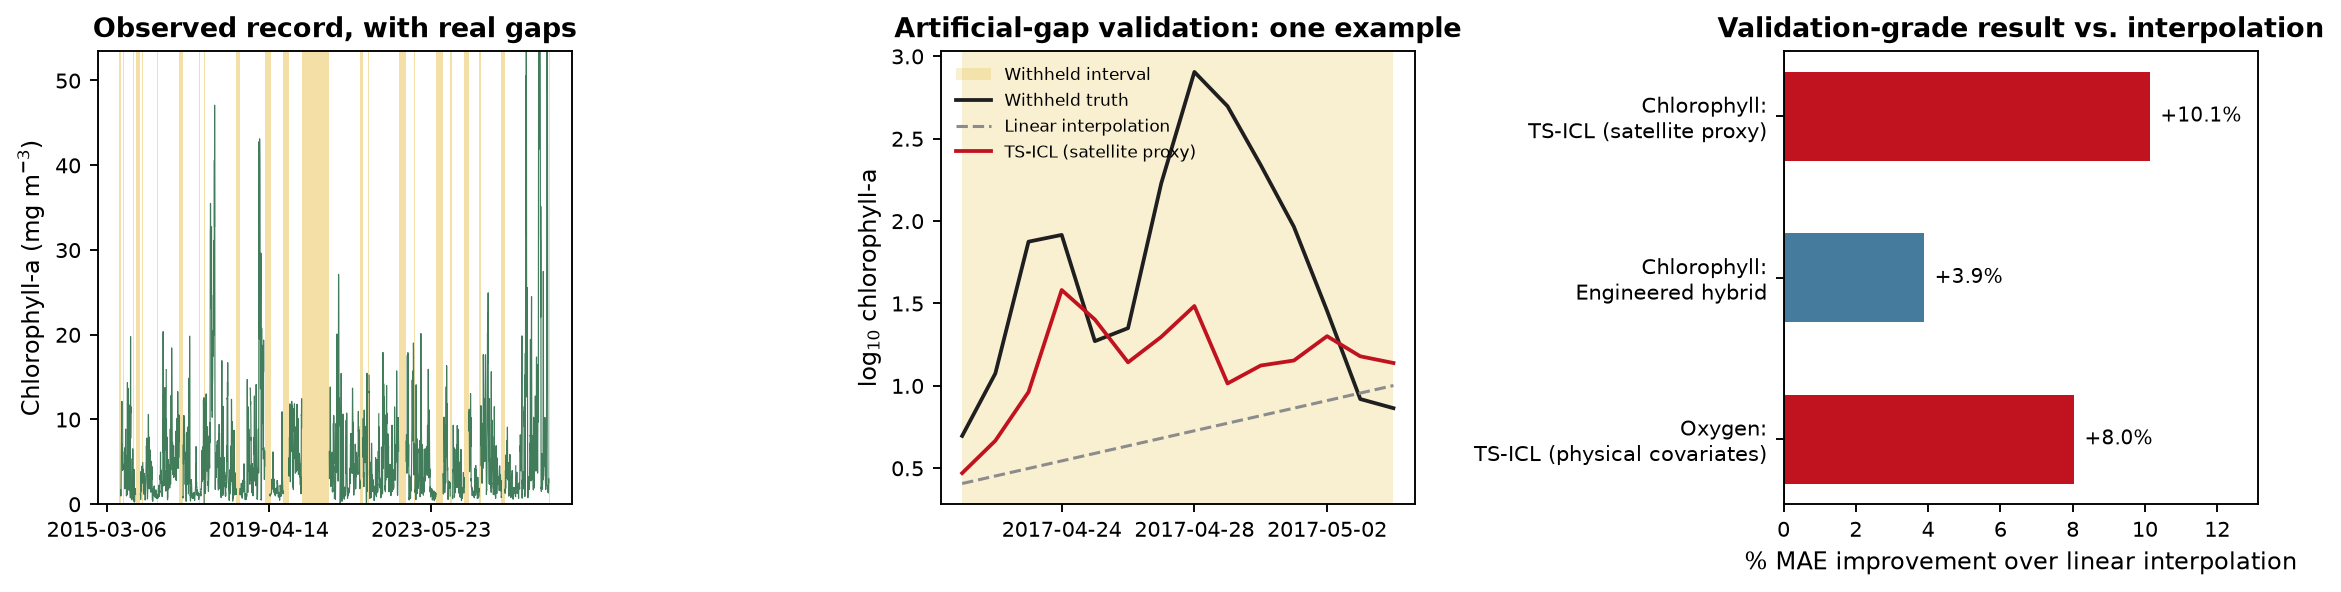
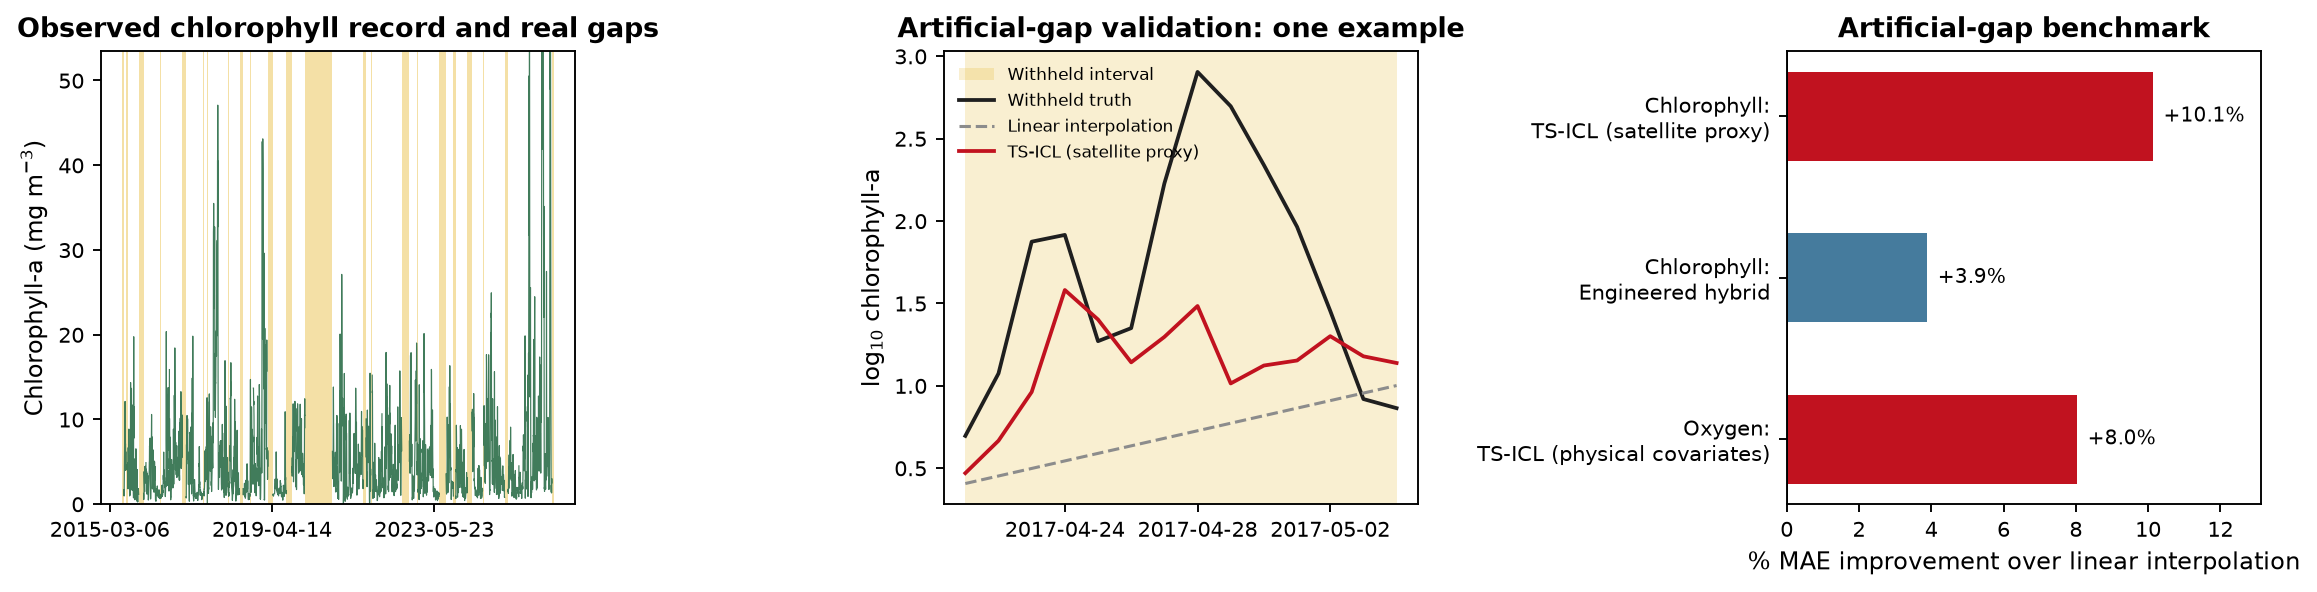
docs(portfolio): correct final public claims and product provenance
README: the "applied validated methods to real gaps in both records"
claim was false for oxygen (no oxygen reconstruction candidate exists,
inventory only) -- corrected. Softened the placebo/negative-control
claim from asserting a proven causal mechanism to what the experiment
actually supports (temporal alignment and covariate information
mattered, not merely extra input channels). QUICK setup command now
uses --locked.

Removed "validation-grade" framing from docs/{data_dictionary,
evidence_and_limitations,methods,reproducibility}.md and
experiments/chlorophyll/real_gap_contract.py in favor of direct
language ("scored against withheld observations", "artificial-gap
benchmark"). Frozen results/*.csv and manuscript/ left untouched
(evidence_tier values there are released data, not doc prose).

docs/methods.md: removed the stale docs/methodology/ reference (that
directory no longer exists after the prior notebook/docs consolidation);
corrected the external-tabular "safe for any gap length" overclaim to
state what's actually true (no target-history dependency, unverified
accuracy beyond the validated gap-length support); softened the
"genericizing paid off" self-congratulatory framing to a direct
statement of fact. Also fixed a leftover stale reference to the removed
figures/chlorophyll/ directory in src/coastal_gap_reconstruction/plotting.py,
found while scanning for other removed-path residue.

docs/reproducibility.md: added --locked to the QUICK install command;
[…]

diff --git a/experiments/visualization/build_project_overview.py b/experiments/visualization/build_project_overview.py
@@ -64,7 +64,7 @@ def panel1_target_and_gaps(ax):
         ax.axvspan(g["start_date"], g["end_date"], color=COLOR_GAP, alpha=0.35, lw=0)
 
     ax.set_ylabel("Chlorophyll-a (mg m$^{-3}$)")
-    ax.set_title("Observed record, with real gaps")
+    ax.set_title("Observed chlorophyll record and real gaps")
     ax.set_ylim(0, target["chl_mean"].quantile(0.995))
     ax.xaxis.set_major_locator(mticker.MaxNLocator(4))
 
@@ -123,7 +123,7 @@ def panel3_benchmark_message(ax):
     ax.invert_yaxis()
     ax.axvline(0, color="black", lw=0.8)
     ax.set_xlabel("% MAE improvement over linear interpolation")
-    ax.set_title("Validation-grade result vs. interpolation")
+    ax.set_title("Artificial-gap benchmark")
     for y, v in zip(y_pos, values):
         ax.text(v + (0.3 if v >= 0 else -0.3), y, f"{v:+.1f}%", va="center",
                 ha="left" if v >= 0 else "right", fontsize=8.5)

diff --git a/experiments/chlorophyll/real_gap_contract.py b/experiments/chlorophyll/real_gap_contract.py
@@ -60,8 +60,8 @@ ARTIFACT_STATUSES: dict[str, ArtifactStatus] = {
     "artificial_validation_gap": ArtifactStatus(
         "artificial_validation_gap",
         "A withheld-and-known-true-value gap from the canonical validation pool "
-        "(experiments.chlorophyll.benchmark_contract) -- the only validation-grade evidence source "
-        "in this project. Not what this module is about, but the category everything else here "
+        "(experiments.chlorophyll.benchmark_contract) -- the only evidence in this project scored "
+        "against withheld observations. Not what this module is about, but the category everything else here "
         "is explicitly NOT.",
     ),
     "observed_real_missing_interval": ArtifactStatus(

diff --git a/src/coastal_gap_reconstruction/plotting.py b/src/coastal_gap_reconstruction/plotting.py
@@ -1,8 +1,10 @@
 """Small plotting helpers for the figure types used in this benchmark.
 
 These are intentionally minimal -- enough to reproduce the basic shape of
-the figures shipped under figures/chlorophyll/, not a full plotting library.
-Requires matplotlib (not a hard dependency of the package; import lazily).
+the target-and-gaps / gap-length-performance figures used elsewhere in
+this repository (e.g. notebook 01, `assets/project_overview.png`), not a
+full plotting library. Requires matplotlib (not a hard dependency of the
+package; import lazily).
 """
 
 from __future__ import annotations

diff --git a/docs/data_sources.md b/docs/data_sources.md
@@ -19,13 +19,17 @@ attribution and use conditions, summarized below.
 | Source / provider | Product or station | Variables used | Role in this project | Product ID / DOI | Required acknowledgement |
 |---|---|---|---|---|---|
 | CEAZAMet / CEAZA | Tongoy Balsa buoy (chlorophyll, sensor BTGOXD2 for oxygen), Punta Lengua de Vaca (PLV) meteorological station | `chl_mean`, `oxygen_mean_mgL`, PLV temperature/pressure/humidity/precipitation/solar radiation/wind | Reconstruction targets (both case studies) and meteorological predictors | -- (station data, www.ceazamet.cl) | Use **one** of: "Datos provistos por CEAZA, obtenidos desde www.ceazamet.cl, 2019" or "Centro de Estudios Avanzados en Zonas Áridas (CEAZA), www.ceazamet.cl, 2019" -- not both |
-| NASA / PO.DAAC | GHRSST Level 4 MUR Global Foundation SST Analysis (v4.1) | `mur_sst_*`, `mur_gradient_*`, `mur_front_*` | Sea-surface-temperature predictor features | `10.5067/GHGMR-4FJ04` | Cite the current PO.DAAC dataset page |
-| Copernicus Marine Service (CMEMS) | Wind reanalysis/forecast product | `wind_u_ms`, `wind_v_ms`, `wind_spd_ms` and lag/roll features | Wind predictor features | -- | Attribution to Copernicus Marine Service |
-| Copernicus / OSTIA | OSTIA SST analysis | `ostia_sst_degC` | SST predictor feature | -- | Attribution to Copernicus Marine Service |
-| ESA / Copernicus | SST Climate Change Initiative product | SST-related predictor features | Predictor features | -- | Attribution to Copernicus Marine Service |
-| Copernicus / GlobColour | Satellite ocean-colour chlorophyll-a | `chl_cons_*`, `chl_perm_*`, patchiness/anomaly features | Satellite chlorophyll proxy predictor and TS-ICL covariate | -- | Attribution to Copernicus Marine Service |
-| EUMETSAT / ASCAT | Advanced Scatterometer wind/current product | Wind and upwelling-related predictor features | Predictor features | -- | Attribution to Copernicus Marine Service |
-| Copernicus / GLORYS12, MULTIOBS | Ocean current reanalysis | Current/transport/kinematic features (`data/shared/external_current_kinematic_extension.csv`) | Ocean-current predictor features (chlorophyll current-transport arms, oxygen `external_physical_plus_currents`) | -- | Attribution to Copernicus Marine Service |
+| NASA / PO.DAAC (JPL MUR MEaSUREs) | GHRSST Level 4 MUR Global Foundation SST Analysis (v4.1) | `mur_sst_*`, `mur_gradient_*`, `mur_front_*` | Sea-surface-temperature predictor features | DOI `10.5067/GHGMR-4FJ04` | Cite the current PO.DAAC dataset page |
+| Met Office / GHRSST (OSTIA) | The Current Configuration of the OSTIA System for Operational Production of Foundation SST and Ice Concentration Analyses (Good et al., *Remote Sensing*, 2020) | `ostia_sst_degC` | SST predictor feature | DOI `10.3390/rs12040720` | Cite Good et al. (2020) |
+| Copernicus Marine Service | Global Ocean Hourly Reprocessed Sea Surface Wind and Stress from Scatterometer and Model | `wind_u_ms`, `wind_v_ms`, `wind_spd_ms` and lag/roll features | Wind predictor features | Product `WIND_GLO_PHY_L4_MY_012_006`, DOI `10.48670/moi-00185` | Attribution to Copernicus Marine Service |
+| Copernicus Marine Service (ACRI-ST) | Global Ocean Colour (Copernicus-GlobColour), Bio-Geo-Chemical, L4 | `chl_cons_*`, `chl_perm_*`, patchiness/anomaly features | Satellite chlorophyll proxy predictor and TS-ICL covariate | Product `OCEANCOLOUR_GLO_BGC_L4_MY_009_104`, DOI `10.48670/moi-00281` | Attribution to Copernicus Marine Service |
+| Copernicus Marine Service | Global Ocean Physics Reanalysis (GLORYS12) | Current/transport/kinematic features (`data/shared/external_current_kinematic_extension.csv`) | Ocean-current predictor features (chlorophyll current-transport arms, oxygen `external_physical_plus_currents`) | Product `GLOBAL_MULTIYEAR_PHY_001_030`, DOI `10.48670/moi-00021` | Attribution to Copernicus Marine Service |
+| Copernicus Marine Service | Global Total (COPERNICUS-GLOBCURRENT), Ekman and Geostrophic Currents at the Surface and 15m (MULTIOBS) | Current/transport/kinematic features (`data/shared/external_current_kinematic_extension.csv`) | Ocean-current predictor features (chlorophyll current-transport arms, oxygen `external_physical_plus_currents`) | Product `MULTIOBS_GLO_PHY_MYNRT_015_003`, DOI `10.48670/mds-00327` | Attribution to Copernicus Marine Service |
+
+The CMEMS wind product above is itself a blend (bias-corrected ERA5 fields
+using ASCAT Metop-A/B/C and historical QuikSCAT/ERS scatterometer
+observations) -- ASCAT is a contributing observational source within that
+one product, not a separately extracted dataset in this project.
 
 CEAZAMet's hourly in-situ observations are publicly accessible at their
 source (www.ceazamet.cl) and are not committed to this repository in raw

diff --git a/docs/reproducibility.md b/docs/reproducibility.md
@@ -8,7 +8,7 @@ readers only need QUICK.
 ```bash
 git clone https://github.com/matteofaverio/coastal-gap-reconstruction
 cd coastal-gap-reconstruction
-uv sync --extra notebooks --extra test   # locked core environment (uv.lock)
+uv sync --extra notebooks --extra test --locked   # locked core environment (uv.lock)
 uv run pytest tests/
 uv run jupyter lab notebooks/01_data_and_gap_audit.ipynb
 ```
@@ -28,7 +28,7 @@ ruff check .        # lint
 uv run pytest tests/test_notebooks_smoke.py -v   # every notebook, executed
 ```
 
-## STANDARD -- bounded live runs (tens of minutes)
+## STANDARD -- bounded and matched-support runs (minutes to a few hours)
 
 Reruns a scientifically representative subset live, on your machine, for
 both case studies:
@@ -72,11 +72,24 @@ documented per method rather than papered over with a looser tolerance.
 ## EXPENSIVE, optional -- full grids (hours to a day+, never required)
 
 Not required to use, inspect, or trust this repository. The frozen tables
-under `results/` are the authoritative complete results; the code below
-regenerates the equivalent and is published, tested, and restart-safe, but
-was intentionally not run to completion as part of preparing this
-repository, because the compute cost is disproportionate to what a public
-reproducibility artifact needs.
+under `results/` are the authoritative complete results in every case
+below. Actual completion status of each grid, as prepared for this
+repository:
+
+- The full chlorophyll primary TS-ICL benchmark (681 gaps x 2 context
+  modes x 6 arms = 8,172 calls) **was run to completion** -- 0 failures,
+  ~3h wall clock.
+- The full chlorophyll covariate dissection (681 gaps x 42 arm/placebo
+  variants = 28,602 calls) was **deliberately stopped** after 2,150
+  successful calls (0 failures) -- a compute-bounded decision, not a
+  failure; the driver is restart-safe and resumable.
+- The full oxygen TS-ICL grid (5 audited-original arms x 2 context modes +
+  4 exploratory arms, all 406 primary gaps) **was not rerun** for this
+  repository.
+
+The code below regenerates the equivalent of each and is published,
+tested, and restart-safe; running any of it to completion is optional and
+was not required to prepare or trust this repository.
 
 ```bash
 # Full chlorophyll TS-ICL target benchmark: 681 gaps x 2 context modes x 6
@@ -139,12 +152,12 @@ from this repository's MIT license, prohibits commercial/production use.
 Review the license in the authors' repository before using TS-ICL in your
 own work.
 
-**Determinism**: same-process, same-environment repeatability is directly
-verified (`experiments/chlorophyll/verify_same_environment_repeatability.py`
--- bitwise-identical predictions across two independent process
-invocations). Bit-exact reproduction across different machines/torch
-versions/CPU vs. GPU is **not** independently verified -- do not assume it
-beyond a fixed environment.
+**Determinism**: same-environment repeatability across two independent
+process invocations is directly verified
+(`experiments/chlorophyll/verify_same_environment_repeatability.py` --
+bitwise-identical predictions). Bit-exact reproduction across different
+machines/torch versions/CPU vs. GPU is **not** independently verified --
+do not assume it beyond a fixed environment.
 
 ## What's frozen vs. regenerable
 
@@ -154,7 +167,8 @@ or EXPENSIVE commands above will not produce a bit-identical file (ML
 estimator fits and TS-ICL inference are environment-sensitive, as noted
 above); `--verify`/`score_*.py` report a structured comparison rather than
 requiring exact equality. See `docs/evidence_and_limitations.md` for which
-results carry validation-grade weight in the first place.
+results are actually scored against withheld observations in the first
+place.
 
 ## Documents
 

diff --git a/docs/methods.md b/docs/methods.md
@@ -29,7 +29,7 @@ pool has 681 gaps at lengths 1, 3, 7, 10, 14, 21, 30, 45, and 60 days;
 oxygen's has 406 primary gaps at lengths 1, 3, 7, 10, 14, 21, 30 days plus
 a small exploratory-extended tier at 45, 60, 90, 120 days (never used in
 headline numbers). See `docs/evidence_and_limitations.md`
-for why this is the only validation-grade evidence tier, and
+for why this is the only evidence tier scored against withheld observations, and
 `experiments/chlorophyll/target_and_gap_pool.py` /
 `experiments/oxygen/target_and_gap_pool.py` for the exact, tested pool
 construction.
@@ -54,7 +54,11 @@ excluding the hidden days currently being scored. See
   lengths and is not forecast-safe (it needs a post-gap observation).
 - **Classical tabular models**: Ridge/ElasticNet/ExtraTrees/HistGradientBoosting
   trained on external-only feature rows (calendar, meteorology, satellite/
-  reanalysis products, no target history) -- safe for any gap length.
+  reanalysis products, no target history) -- they do not require any
+  target-history observation inside or around the gap, so they can
+  produce a prediction wherever the external predictors are available;
+  their accuracy beyond the validated gap-length support (up to 60 days
+  for chlorophyll, 30 days primary for oxygen) remains unverified.
   `experiments/chlorophyll/tabular_models.py`,
   `experiments/oxygen/classical_models.py`.
 - **Gap-edge residual models**: predict a correction over linear
@@ -91,8 +95,8 @@ gap-position information) and a matched-reference fit (external features
 plus 5 structural meta-features describing gap length/position, never a
 hidden target value). Only the matched-reference protocol has a released
 row in the benchmark tables. Both are published as separate method IDs; see
-`docs/methodology` cross-references in `experiments/chlorophyll/gap_edge_models.py`
-and `tabular_models.py` module docstrings for the exact feature sets.
+the `experiments/chlorophyll/gap_edge_models.py` and `tabular_models.py`
+module docstrings for the exact feature sets.
 
 ## Oxygen adaptation
 
@@ -100,7 +104,7 @@ The oxygen case study (Case Study 2) reuses every generic mechanic
 (masking, baseline imputation, Gaussian process, TS-ICL calling layer, run
 state/manifest bookkeeping) from `src/coastal_gap_reconstruction/` and
 `experiments/chlorophyll/tsicl_run_state.py`/`tsicl_run_manifest.py`
-unmodified -- evidence that genericizing the shared package paid off.
+unmodified -- none of that shared code needed any oxygen-specific change.
 Oxygen-specific decisions (raw-mg/L scoring, predictor admissibility,
 support size, tail diagnostics) live in `experiments/oxygen/benchmark_contract.py`.
 See `docs/reproducibility.md` and `notebooks/06_oxygen_case_study.ipynb` for

diff --git a/docs/data_dictionary.md b/docs/data_dictionary.md
@@ -288,7 +288,7 @@ with a `_chl_mg_m3` column in the same computation.
 | q05_log10_chl, q10_log10_chl, q25_log10_chl, q50_log10_chl, q75_log10_chl, q90_log10_chl, q95_log10_chl | Quantile predictions, log10 scale, forming an uncertainty band |
 | pred_chl_mg_m3 | Point prediction, back-transformed to chlorophyll units (mg/m³) |
 | q05_chl_mg_m3, q10_chl_mg_m3, q25_chl_mg_m3, q50_chl_mg_m3, q75_chl_mg_m3, q90_chl_mg_m3, q95_chl_mg_m3 | Same quantiles, back-transformed to mg/m³ (`10 ** q*_log10_chl`) |
-| artificial_validation_supported | True if this gap length/configuration has validation-grade support from the artificial-gap pool |
+| artificial_validation_supported | True if this gap length/configuration has validated artificial-gap support |
 | event_caveat | Free-text note on event-day handling; no event-specific bias correction is applied in this output |
 | quantile_calibrated | Whether the quantile outputs have been calibration-checked |
 | scenario_only_256day | Legacy field name -- despite "scenario," this flags rows that are **real, observed** gap positions falling outside the validated artificial-gap length envelope (currently just the one 256-day gap), not a synthetic/constructed scenario. See `docs/evidence_and_limitations.md`. |
@@ -446,7 +446,7 @@ both candidate methods is needed, e.g. for plotting a continuous series.
 | tsicl_gap_id | Real-gap identifier this day belongs to, as labeled in the TS-ICL output (NaN if outside any real gap) |
 | tsicl_satellite_proxy_pred_chl | TS-ICL satellite-proxy candidate prediction, chlorophyll units (NaN if not predicted for this day) |
 | tsicl_satellite_proxy_pred_log10_chl | Same prediction, log10 scale |
-| tsicl_artificial_validation_supported | True if this gap length/configuration has validation-grade support from the artificial-gap pool |
+| tsicl_artificial_validation_supported | True if this gap length/configuration has validated artificial-gap support |
 | tsicl_scenario_only_256day | True if this row's TS-ICL prediction belongs to the 256-day scenario-only gap |
 | hybrid_gap_id | Real-gap identifier this day belongs to, as labeled in the engineered hybrid output |
 | hybrid_gap_length | Length (days) of the real gap this day belongs to, per the engineered hybrid output |

diff --git a/README.md b/README.md
@@ -33,8 +33,11 @@ goal is filling in history, not predicting the future.
   interpolation baselines, external-predictor tabular models, a Gaussian
   process and a state-space model, and **TS-ICL**, a zero-shot time-series
   foundation model, evaluated with and without external covariates.
-- Applied the validated methods to the real gaps in both records, keeping
-  those outputs clearly labeled as candidates, not as validated numbers.
+- Applied validated methods to the real gaps in the chlorophyll record,
+  publishing two independent, method-specific candidate reconstructions,
+  clearly labeled as candidates, not as validated numbers. Oxygen
+  currently has a real-gap inventory and classification only — no
+  oxygen reconstruction candidate is published.
 - Wrote up both case studies in a report, two presentations, and a poster.
 
 ## Main findings
@@ -51,9 +54,10 @@ goal is filling in history, not predicting the future.
   wind, solar, currents — the first comparator to beat interpolation on
   oxygen at all, 95% CI [4.5%, 11.4%]).
 - Covariate effects were selective, not universally beneficial: some
-  covariate configurations hurt performance, and a placebo/negative-control
-  test confirmed the winning covariate's effect is a real mechanism, not an
-  artifact of extra input channels.
+  covariate configurations hurt performance. A negative-control experiment
+  supported that temporal alignment and covariate information mattered,
+  rather than performance improving merely because extra input channels
+  were added.
 - Every method under-predicts high-chlorophyll event days, and TS-ICL's
   oxygen improvement does not hold uniformly across the distribution (it
   loses to interpolation in the high tail). Neither limitation is solved.
@@ -82,7 +86,7 @@ known limitations before citing any number from this repository.
 ```bash
 git clone https://github.com/matteofaverio/coastal-gap-reconstruction
 cd coastal-gap-reconstruction
-uv sync --extra notebooks --extra test
+uv sync --extra notebooks --extra test --locked
 uv run pytest tests/
 uv run jupyter lab notebooks/01_data_and_gap_audit.ipynb
 ```

diff --git a/docs/evidence_and_limitations.md b/docs/evidence_and_limitations.md
@@ -6,7 +6,7 @@ drawing a stronger conclusion than the evidence supports.
 
 ## Evidence hierarchy
 
-### 1. Validation-grade: artificial-gap results
+### 1. Results scored against withheld observations: artificial-gap results
 
 Results computed against the canonical artificial-gap pool -- chlorophyll:
 681 gaps, 9 lengths, 1-60 days; oxygen: 406 primary gaps, 7 lengths, 1-30
